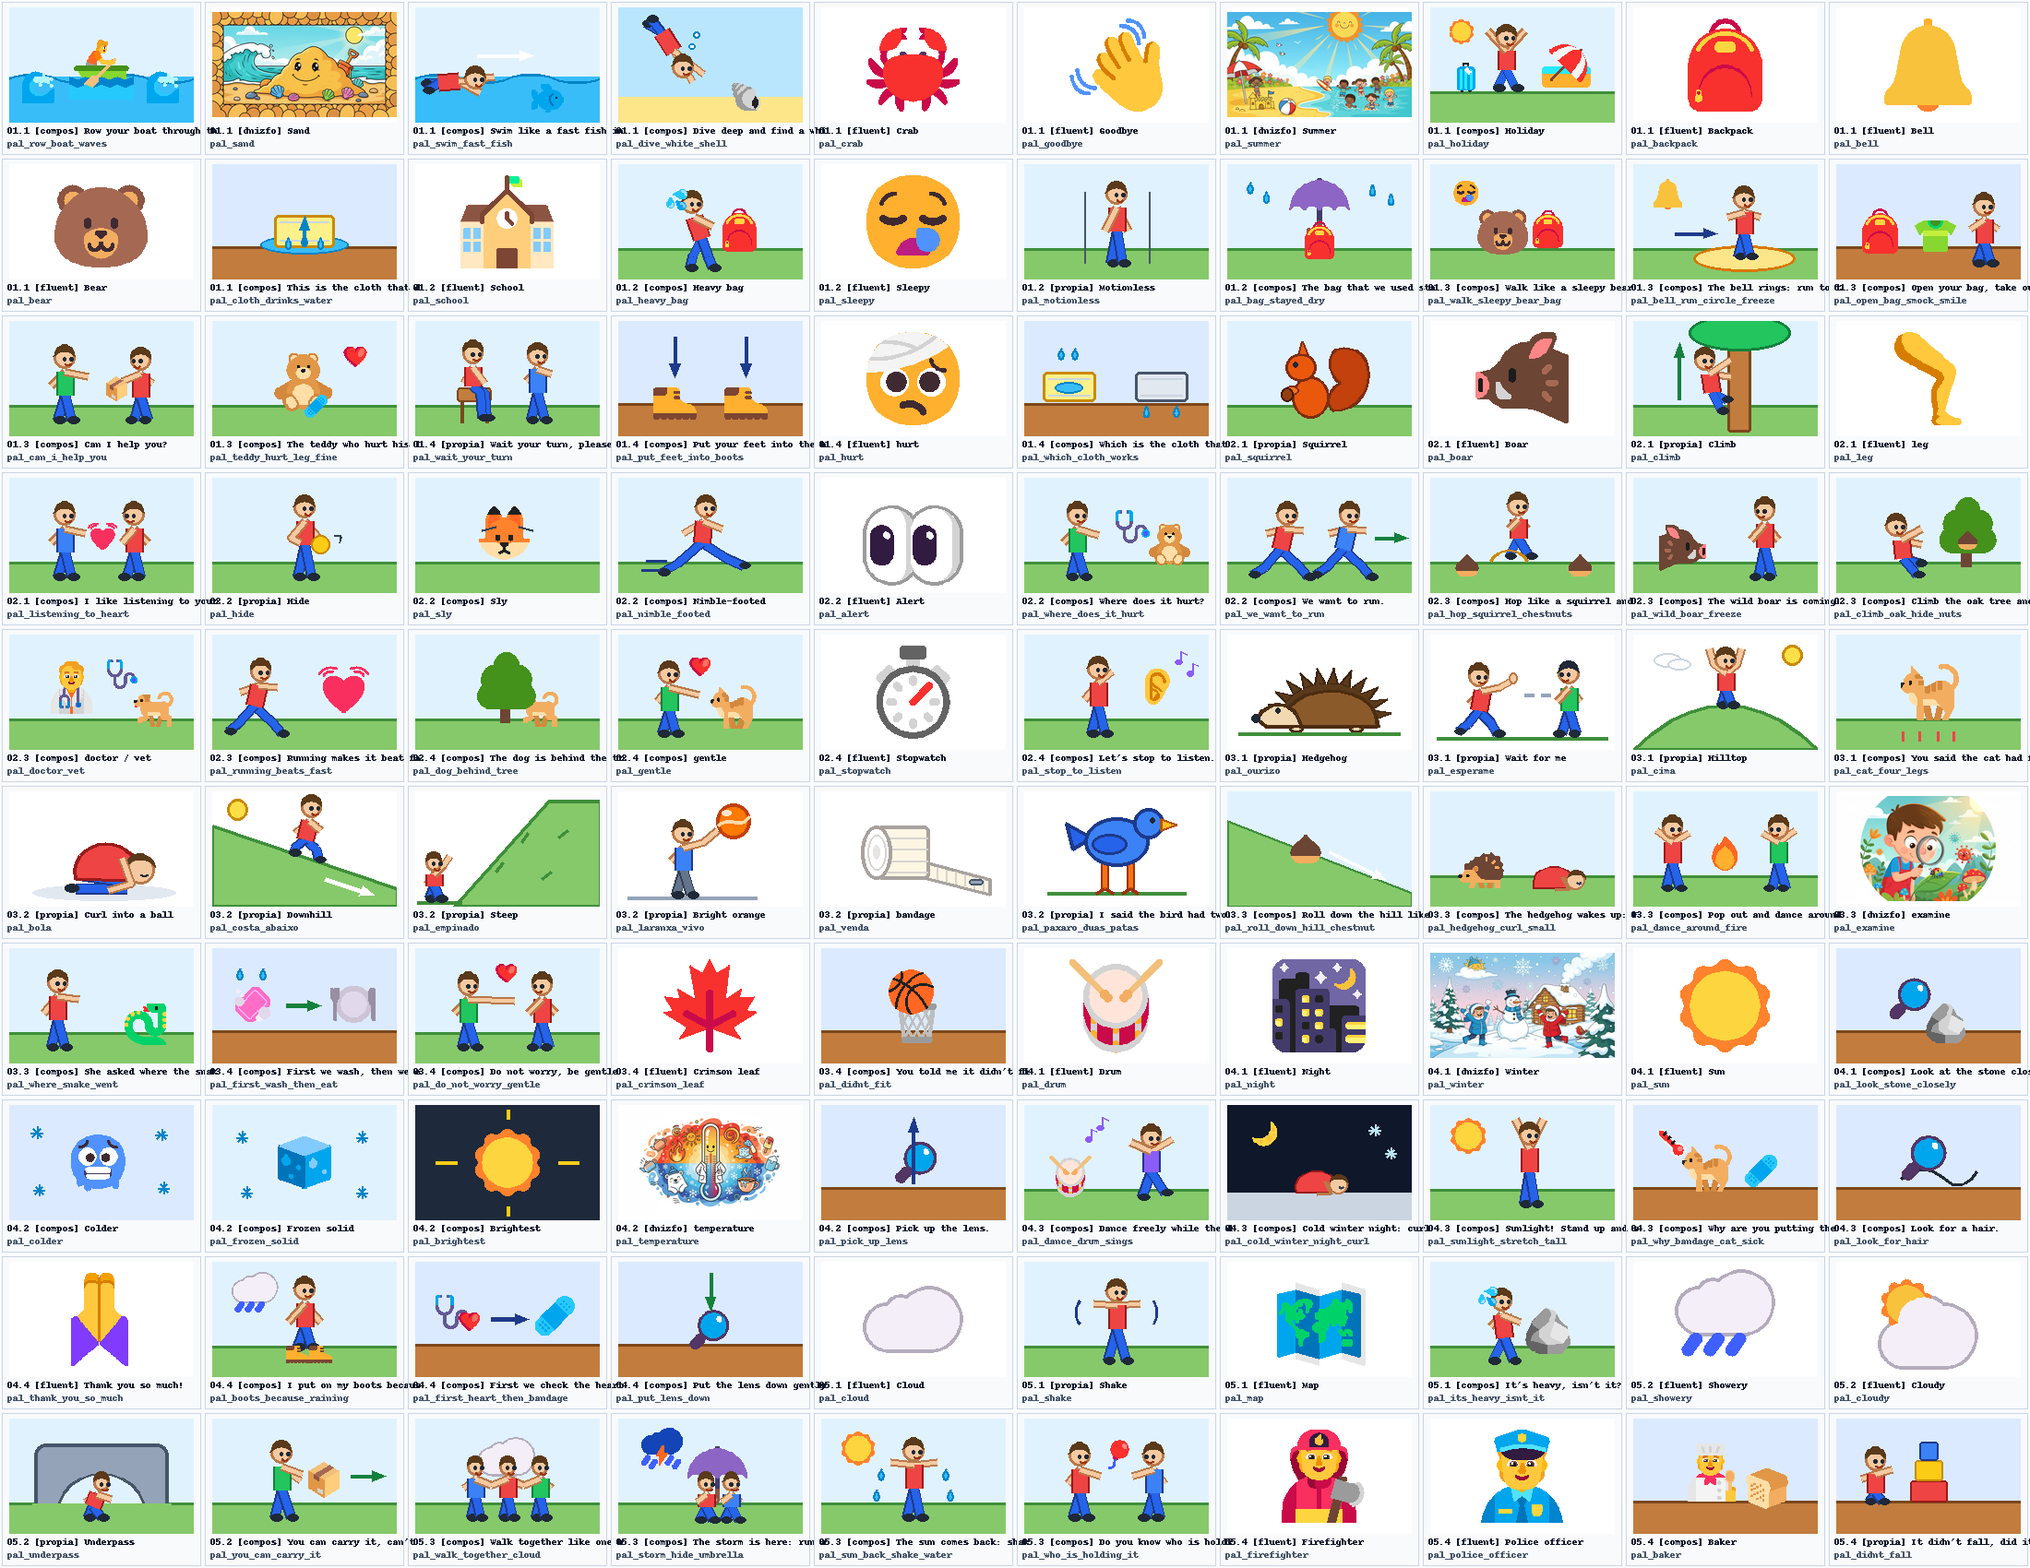
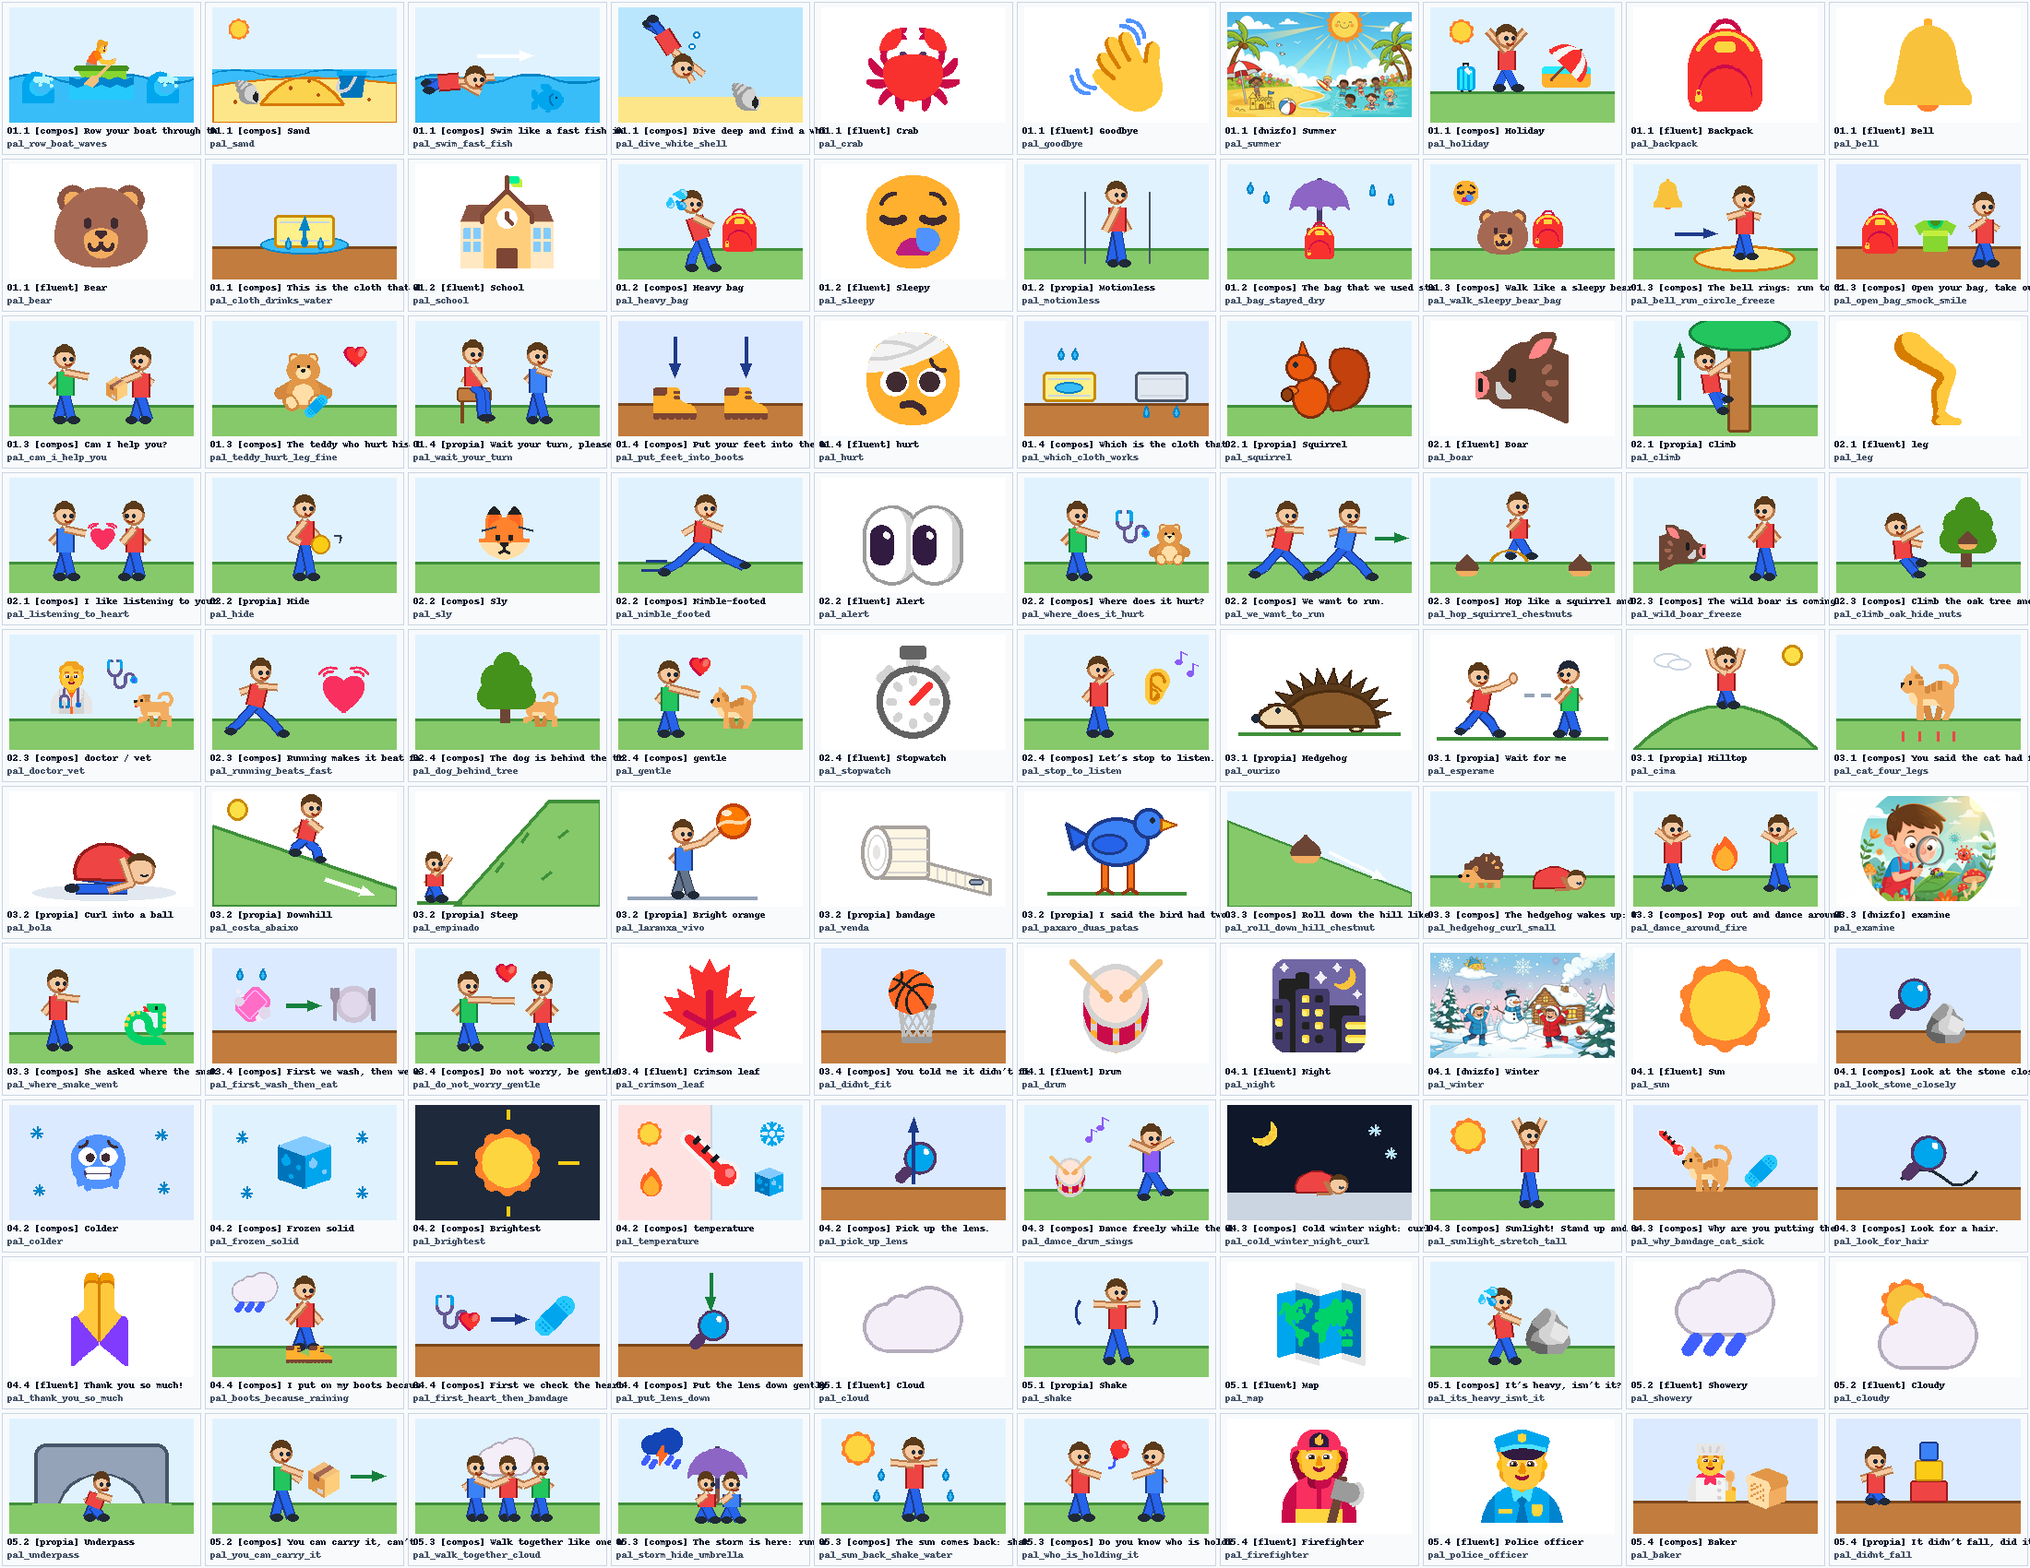
P2.21: dart format en lamina_vector/test, sustituir pal_sand/protect/temperature sin caras y 5 pasos curso_4_5 en test/capturas_test.dart

Changed region(s): [[0.0927, 0.0, 0.2164, 0.0935], [0.2782, 0.6859, 0.4018, 0.7794]]

diff --git a/test/capturas_test.dart b/test/capturas_test.dart
@@ -578,6 +578,48 @@ void main() {
         );
       });
     }
+
+    // O-20261111-4 (P2.21): 5 pasos de lección de curso_4_5 (3 compuestas,
+    // 1 Fluent directo y 1 frase de gramática), en gl y es.
+    for (final (n, nome) in [
+      (1, 'busy-bee'),
+      (2, 'land-softly'),
+      (3, 'sun-wakes'),
+      (4, 'hat'),
+      (5, 'if-blown'),
+    ]) {
+      testWidgets('lamina 4-5 · $nome · $l', (tester) async {
+        final lec = Leccions.lidas!.porId('curso_4_5', 'curso_4_5.07.3')!.$2;
+        await capturar(
+          tester,
+          'leccion-4-5-$nome-$l',
+          LeccionDuolingoScreen(
+            pasos: pasosDoDia(lec, 1, lang),
+            language: lang,
+            semana: CriancasStore.semana('curso_4_5', 3, 3),
+            palabrasDaSemana: [for (final p in lec.novas) p.en],
+            store: CriancasStore.enMemoria(const [
+              Crianza(id: 'c1', nome: 'Uxía', idade: 4, curso: 'curso_4_5'),
+            ]),
+            crianza: const Crianza(
+                id: 'c1', nome: 'Uxía', idade: 4, curso: 'curso_4_5'),
+            agora: DateTime(2026, 3, 16, 18),
+          ),
+          tema: AppTheme.temaFamilias,
+          antesDeRetratar: (t) async {
+            for (var i = 0; i < n; i++) {
+              await t.runAsync(() async {
+                await t.tap(find.byKey(const Key('leccion_continuar')));
+                await Future<void>.delayed(const Duration(milliseconds: 40));
+              });
+              await t.pumpAndSettle();
+            }
+            await t.runAsync(
+                () => Future<void>.delayed(const Duration(milliseconds: 120)));
+          },
+        );
+      });
+    }
     testWidgets('na casa · aviso dun día futuro · $l', (tester) async {
       await contidoDeHoxe(tester);
       // Noviembre se lee antes, con reloj de verdad: si lo pide la pantalla

diff --git a/test/core/lamina_vector_test.dart b/test/core/lamina_vector_test.dart
@@ -54,7 +54,8 @@ void main() {
     expect(path.contains(const Offset(50, 50)), isFalse);
   });
 
-  test('registrarLicenzasTerceiros añade Fluent Emoji Flat e Iconify', () async {
+  test('registrarLicenzasTerceiros añade Fluent Emoji Flat e Iconify',
+      () async {
     registrarLicenzasTerceiros();
     final entries = await LicenseRegistry.licenses.toList();
     final pkgs = entries.expand((e) => e.packages).toSet();

diff --git a/lib/core/brand/lamina_vector.dart b/lib/core/brand/lamina_vector.dart
@@ -116,7 +116,8 @@ class FormaLamina {
   }
 
   static PathFillType _reglaDe(Map<String, dynamic> m) {
-    final raw = (m['fr'] ?? m['regla'] ?? m['fillRule'])?.toString().toLowerCase();
+    final raw =
+        (m['fr'] ?? m['regla'] ?? m['fillRule'])?.toString().toLowerCase();
     return raw == 'evenodd' ? PathFillType.evenOdd : PathFillType.nonZero;
   }
 

diff --git a/tools/gen_laminas_4_5.py b/tools/gen_laminas_4_5.py
@@ -290,14 +290,11 @@ FLUENT_DIRECTOS: dict[str, tuple[str, str, str, str]] = {
 # ── Banco directo dnizfor MIT (inspeccionadas una a una sin marcas/personajes)
 DNIZFOR_DIRECTOS: dict[str, tuple[str, str, str, str]] = {
     # clave_en: (slug, dnizfor_word, clasificacion, porque)
-    "sand": ("sand", "sand", "U", "Montículo de arena en la playa con pala y conchas."),
     "summer": ("summer", "summer", "U", "Escena de verano en la playa con sol brillante y niños bañándose."),
     "winter": ("winter", "winter", "U", "Paisaje de invierno con nieve, muñeco de nieve y niños abrigados."),
-    "temperature": ("temperature", "temperature", "U", "Termómetro contrastando calor y frío para enseñar temperatura."),
     "examine": ("examine", "examine", "U", "Niño examinando de cerca una mariquita con una lupa."),
     "stage": ("stage", "stage", "U", "Escenario de teatro con telón abierto y foco central."),
     "cliff": ("cliff", "cliff", "U", "Acantilado rocoso alto junto al mar."),
-    "protect": ("protect", "protect", "U", "Escudo protegiendo con cuidado una flor en el centro."),
     "muddy": ("muddy", "mud", "R", "Charco grande de barro salpicando: embarrado."),
     "windy": ("windy", "wind", "R", "Viento fuerte agitando árbol, cometa, molinillo y velero."),
 }
@@ -1420,6 +1417,48 @@ def _escenas_4_5() -> dict[str, tuple[str, str, list[dict], str]]:
         + fl("Coat", 42, 14, 68)
         + frecha((120, 72), (120, 24), VERDE_OSCURO, 4),
         "Abrigo cerrado con flecha hacia arriba indicando subir la cremallera.",
+    )
+    m["sand"] = (
+        "sand", "C",
+        [
+            R(0, 0, 160, 100, 0, "#e0f2fe"),
+            R(0, 54, 160, 22, 0, AGUA),
+            L("M0 57 Q20 51 40 57 Q60 63 80 57 Q100 51 120 57 Q140 63 160 57", AGUA_OSCURO, 2),
+            F("M0 68 Q75 56 160 66 L160 100 L0 100 Z", "#fde68a", "#d97706", 2.2),
+            F("M42 84 Q78 38 114 84 Z", "#fcd34d", "#d97706", 2.2),
+            E(68, 70, 1.5, 1.5, TIERRA),
+            E(84, 64, 1.5, 1.5, TIERRA),
+            E(92, 76, 1.5, 1.5, TIERRA),
+            E(20, 82, 1.5, 1.5, TIERRA),
+            E(136, 80, 1.5, 1.5, TIERRA),
+        ]
+        + fl("Sun", 12, 8, 22)
+        + fl("Spiral shell", 18, 60, 26)
+        + fl("Bucket", 104, 48, 34),
+        "Montículo de arena dorada en la playa con concha y cubo junto al mar, sin personajes.",
+    )
+    m["temperature"] = (
+        "temperature", "C",
+        [
+            R(0, 0, 80, 100, 0, "#fee2e2"),
+            R(80, 0, 80, 100, 0, "#e0f2fe"),
+            L("M80 0 L80 100", "#cbd5e1", 1.5),
+        ]
+        + fl("Sun", 14, 12, 26)
+        + fl("Fire", 14, 52, 30)
+        + fl("Snowflake", 120, 12, 26)
+        + fl("Ice", 116, 52, 30)
+        + fl("Thermometer", 48, 16, 64),
+        "Termómetro central entre calor (sol y fuego) y frío (copo de nieve y hielo): temperatura.",
+    )
+    m["protect"] = (
+        "protect", "C",
+        fondo_prado()
+        + gotas([(14, 18), (22, 42), (38, 12)])
+        + fl("Shield", 26, 18, 56)
+        + fl("Seedling", 88, 38, 36)
+        + fl("Blossom", 116, 48, 26),
+        "Escudo protegiendo un brote y una flor bajo la lluvia lateral, sin caras ni personajes.",
     )
     return m
 

diff --git a/docs/laminas-ejercicios.md b/docs/laminas-ejercicios.md
@@ -111,7 +111,7 @@ Con lámina: 190. **Sin lámina todavía: 4188** (las cuenta y las nombra `pytho
 | Pick up the lens. | Colle a lupa. | Coge la lupa. | — | `pal_pick_up_lens` | composta | Lupa elevándose sobre la mesa con flecha hacia arriba: coge la lupa. |
 | Police officer | Policía | Policía | Hacer el gesto de parar | `pal_police_officer` | banco | Persona policía con gorra y uniforme, coincidencia directa. |
 | Pop out and dance around the fire | Sae e baila arredor do lume | Sal y baila alrededor del fuego | Estirada explosiva y baile circular alrededor de un punto central. | `pal_dance_around_fire` | composta | Dos niños bailando alegres con los brazos en alto alrededor de una hoguera. |
-| protect | protexer | proteger | — | `pal_protect` | banco | Escudo protegiendo con cuidado una flor en el centro. |
+| protect | protexer | proteger | — | `pal_protect` | composta | Escudo protegiendo un brote y una flor bajo la lluvia lateral, sin caras ni personajes. |
 | Pull the rope together: one, two, three! | Tirade xuntos da corda: un, dous, tres! | ¡Tirad juntos de la cuerda: uno, dos, tres! | Tracción cooperativa de la cuerda coordinada al conteo. | `pal_pull_rope_together` | nova | Tres niños alineados tirando juntos hacia la izquierda de una misma cuerda. |
 | Pull | Tirar de | Tirar de | Tirar de una cuerda imaginaria hacia uno mismo | `pal_pull` | nova | Niño inclinado hacia atrás agarrando y tirando con fuerza de una cuerda hacia sí. |
 | Put the lens down gently. | Deixa a lupa con coidado. | Deja la lupa con cuidado. | — | `pal_put_lens_down` | composta | Flecha suave hacia abajo indicando dejar la lupa sobre la mesa. |
@@ -123,7 +123,7 @@ Con lámina: 190. **Sin lámina todavía: 4188** (las cuenta y las nombra `pytho
 | Row your boat through the big waves | Rema na barca entre as ondas grandes | Rema en la barca entre las olas grandes | Flexo-extensión alternada del tronco en pareja, cogidos de las manos. | `pal_row_boat_waves` | composta | Persona remando en barca en medio de grandes olas (Fluent Flat combinado). |
 | Running makes it beat fast. | Correr faino latexar rápido. | Correr hace que lata rápido. | — | `pal_running_beats_fast` | composta | Niño corriendo acompañado de un corazón latiendo rápido. |
 | Rushing | Rápido e forte | Rápido y fuerte | Mover las manos muy rápido | `pal_rushing` | nova | Corriente rápida con espumas y flechas veloces avanzando con fuerza. |
-| Sand | Area | Arena | Pisar despacio como sobre arena caliente | `pal_sand` | banco | Montículo de arena en la playa con pala y conchas. |
+| Sand | Area | Arena | Pisar despacio como sobre arena caliente | `pal_sand` | composta | Montículo de arena dorada en la playa con concha y cubo junto al mar, sin personajes. |
 | School | Escola | Escuela | Dibujar en el aire el tejado de la escuela con las manos | `pal_school` | banco | Edificio de escuela con reloj y bandera, coincidencia directa. |
 | Seabird | Ave mariña | Ave marina | Planear con los brazos abiertos | `gaivota` | reutilizada | Gaviota de perfil del set propio sobre fondo marino: ave marina. |
 | Secret | Secreto, secreta | Secreto, secreta | Llevarse el dedo a los labios y guiñar un ojo | `pal_secret` | banco | Cara llevándose el dedo a los labios: secreto, igual que el gesto. |
@@ -149,7 +149,7 @@ Con lámina: 190. **Sin lámina todavía: 4188** (las cuenta y las nombra `pytho
 | Sunlight! Stand up and stretch tall | Luz do sol! Ponte de pé e estírate ben alto | ¡Luz del sol! Ponte de pie y estírate bien alto | Incorporación lenta y extensión axial completa con los brazos arriba. | `pal_sunlight_stretch_tall` | composta | Sol brillante iluminando al niño de pie estirando los brazos bien arriba. |
 | Sweeter | Máis doce | Más dulce | Sonreír más | `pal_sweeter` | composta | Tarro de miel y fresa madura juntos: más dulce. |
 | Swim like a fast fish in the ría | Nada coma un peixe rápido na ría | Nada como un pez rápido en la ría | Desplazamiento por el suelo con brazada alternada de pecho. | `pal_swim_fast_fish` | composta | Niño nadando a brazadas junto a un pez rápido en la ría. |
-| temperature | temperatura | temperatura | — | `pal_temperature` | banco | Termómetro contrastando calor y frío para enseñar temperatura. |
+| temperature | temperatura | temperatura | — | `pal_temperature` | composta | Termómetro central entre calor (sol y fuego) y frío (copo de nieve y hielo): temperatura. |
 | Thank you for everything | Grazas por todo | Gracias por todo | Poner la mano en el pecho | `pal_thank_you_everything` | composta | Niño llevando la mano al pecho junto a un gran corazón rojo: gracias por todo. |
 | Thank you so much! | Moitísimas grazas! | ¡Muchísimas gracias! | Juntar las manos y sonreír | `pal_thank_you_so_much` | banco | Dos manos juntas en señal de gratitud: coincide con el gesto. |
 | The bag that we used stayed dry. | A bolsa que usamos quedou seca. | La bolsa que usamos se quedó seca. | — | `pal_bag_stayed_dry` | composta | Mochila protegida bajo paraguas mientras la lluvia cae a los lados: se quedó seca. |

diff --git a/docs/PLAN_ANTIGRAVITY.md b/docs/PLAN_ANTIGRAVITY.md
@@ -52,7 +52,8 @@ commit. Lo vigila `tools/check_registro_commits.py`, dentro de `tools/gates.sh`.
 | P2.01 | P2.0b: medir cobertura sobre (c) con fuentes compatibles con uso comercial y derivadas | 2 | **sí** |
 | P2.1 | Conversor `banco_a_lamina.py`, reparación `lamina_vector.dart`, mapa ampliado, créditos/licencias y gate `check_banco_laminas.py` | 2 | no |
 | P2.2 | 4-5 años completo (U/R/C/D): 0 piezas sin lámina en 4-5, cifras, hoja de contactos y nota de capturas gl/es | 2 | **sí**: mira tres semanas al azar |
-| P2.3 | 0-2 años completo a 0 piezas sin lámina | 2 | **sí** |
+| P2.21 | Revisión P2.2: dart format en lamina_vector/test, sustituir pal_sand/protect/temperature (sin caras) y 5 pasos de curso_4_5 en test/capturas_test.dart | 2 | no |
+| P2.3 | 0-2 años completo a 0 piezas sin lámina | 2 | no (aprobado estilo 4-5) |
 | P2.4 | 2-3 años completo a 0 piezas sin lámina | 2 | **sí** |
 | P2.5 | 3-4 años completo a 0 piezas sin lámina | 2 | **sí** |
 | P2.6 | 5-6 años completo a 0 piezas sin lámina | 2 | **sí** |
@@ -281,4 +282,5 @@ Base: `6be3d38b`
 | P2.0 | e5c2ff3b | 2026-11-18 | Nada visible: medición de cobertura Fluent Emoji en docs/cobertura-fluent.md | sin flutter; ordenes/fallos/registro/bundled/no_emoji OK; laminas 6351/6382 | docs/cobertura-fluent.md, docs/PLAN_ANTIGRAVITY.md | |
 | P2.01 | 66280a3d | 2026-11-18 | Nada visible: P2.0b, cobertura de 6 fuentes comerciales/derivadas sobre (c) y regla de licencias | sin flutter; ordenes/fallos/registro/bundled/no_emoji OK; laminas 6351/6382 | docs/ORDENES.md, docs/cobertura-fluent.md, docs/PLAN_ANTIGRAVITY.md | |
 | P2.1 | a773038c | 2026-11-18 | Créditos y renderer: Fluent Emoji Flat, LicenseRegistry, _parsearRuta con implícitas/evenodd/raster; conversor, gate y 3 CSV | sin flutter; ordenes/fallos/registro/banco_laminas/email/bundled/no_emoji/banco_a_lamina --test OK; laminas 6351/6382 | tools/banco_a_lamina.py, tools/check_banco_laminas.py, lib/core/brand/lamina_vector.dart, lib/core/brand/licenzas_terceiros.dart, ATTRIBUTION.md, LICENSE.md | |
-| P2.2 | este | 2026-11-18 | 4-5 años: 190 piezas únicas (447 entradas de lecciones curso_4_5) a 0 sin lámina; U=25, R=19, C=106, D=40; hoja de contactos p1/p2 | sin flutter; ordenes/fallos/registro/licencias/banco_laminas/bundled/laminas/no_emoji OK; curso_4_5=0; total 5816/6382 | tools/gen_laminas_4_5.py, tools/hoja_contactos.py, docs/revision_4_5_lecciones.csv, docs/capturas/hoja_contactos_curso_4_5_p1.png, docs/capturas/hoja_contactos_curso_4_5_p2.png | |
+| P2.2 | 6e89a446 | 2026-11-18 | 4-5 años: 190 piezas únicas (447 entradas de lecciones curso_4_5) a 0 sin lámina; U=25, R=19, C=106, D=40; hoja de contactos p1/p2 | sin flutter; ordenes/fallos/registro/licencias/banco_laminas/bundled/laminas/no_emoji OK; curso_4_5=0; total 5816/6382 | tools/gen_laminas_4_5.py, tools/hoja_contactos.py, docs/revision_4_5_lecciones.csv, docs/capturas/hoja_contactos_curso_4_5_p1.png, docs/capturas/hoja_contactos_curso_4_5_p2.png | |
+| P2.21 | este | 2026-11-18 | Revisión 4-5 años: dart format (lamina_vector + test), sustitución de pal_sand/protect/temperature sin caras (U=22, R=19, C=109, D=40; curso_4_5=0) y 5 pasos de curso_4_5 en test/capturas_test.dart (gl/es) | sin flutter; ordenes/fallos/registro/licencias/banco_laminas/bundled/laminas/no_emoji OK; curso_4_5=0; total 5816/6382 | lib/core/brand/lamina_vector.dart, test/core/lamina_vector_test.dart, test/capturas_test.dart, tools/gen_laminas_4_5.py, docs/capturas/hoja_contactos_curso_4_5_p1.png, docs/capturas/hoja_contactos_curso_4_5_p2.png | |
